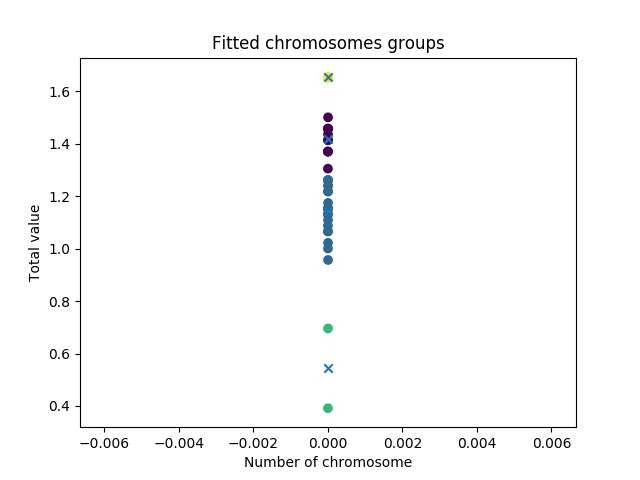
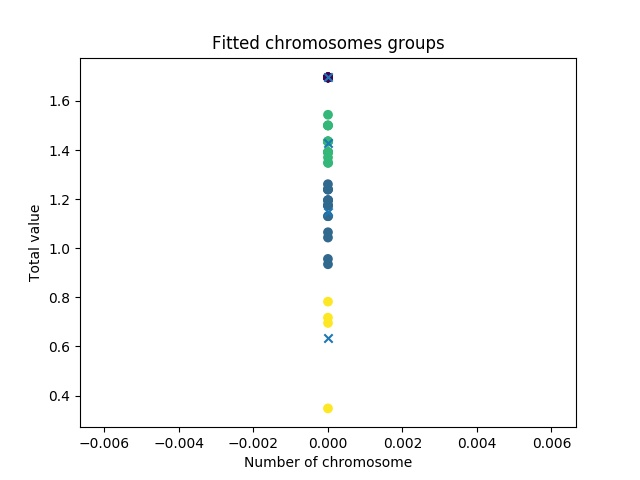
Last errors from reset repaired

diff --git a/genetic_optimizer/src/conf_handler.py b/genetic_optimizer/src/conf_handler.py
@@ -62,7 +62,8 @@ class Main_Configuration(object):
     '''
 
     @os_slashes
-    def __init__(self, slashes):
+    def __init__(self, iterations, shuffle_scale, variety, chromosome_weight, slashes):
+        self.user_provided_input = {'iterations': iterations, 'shuffle_scale': shuffle_scale, 'variety': variety, 'chromosome_weight': chromosome_weight}
         self.PATH = '.{}src{}STANDARDS.conf'.format(slashes, slashes)
         if path_existence(self.PATH):
             self.config = ConfigParser()
@@ -72,18 +73,19 @@ class Main_Configuration(object):
             self.out_dir =str(".{}" + self.config.get('OUTPUTLOCATION', 'DIR') + "{}").format(slashes, slashes)
 
     def performance(self):
-        shuffle_scale = float(self.config.get('PERFORMANCE', 'SHUFFLE_SCALE'))
-        iterations = float(self.config.get('PERFORMANCE', 'ITER'))
-        chromosome_weight = float(self.config.get('PERFORMANCE', 'CHROMOSOMELAYERWEIGHT'))
-        variety = float(self.config.get('PERFORMANCE', 'VARIETY'))
-
-        if (shuffle_scale or variety) not in np.arange(0, 2, 0.01):
-            raise Exception('Sum of crossover probability and mutation probability must be in range from 0 to 1 (0% - 100%)')
+        getperformance = {'iterations' : float(self.config.get('PERFORMANCE', 'ITER')), 'shuffle_scale' : float(self.config.get('PERFORMANCE', 'SHUFFLE_SCALE')) , 'chromosome_weight' : float(self.config.get('PERFORMANCE', 'CHROMOSOMELAYERWEIGHT')), 'variety': float(self.config.get('PERFORMANCE', 'VARIETY'))}
         
-        elif (iterations or chromosome_weight) < 0:
+        for key, value in self.user_provided_input.items():
+            if value is not None:
+                getperformance[key] = value
+        
+        if (getperformance['shuffle_scale'] or getperformance['variety']) not in np.arange(0, 2, 0.01):
+            raise Exception('Sum of crossover probability and mutation probability must be in range from 0 to 1 (0% - 100%)')
+                
+        elif (getperformance['iterations'] or getperformance['chromosome_weight']) < 0:
             raise Exception('All features in PERFORMANCE section must be positive')
+
         else:
-            getperformance = {'iter' : iterations, 'shuffle_scale' : shuffle_scale , 'chromosome_weight' : chromosome_weight, 'variety': variety}
             return getperformance
 
     def input_loc(self):
@@ -91,19 +93,22 @@ class Main_Configuration(object):
             return self.in_dir
 
     def output_loc(self):
-        if dir_existence(self.out_dir):
-            getfiles = {'file_name' : False, 'fig_name' : False, 'log_name' : False}
+        if any([bool(self.config.get('OUTPUTLOCATION', 'DOOUT')), bool(self.config.get('OUTPUTLOCATION', 'DOFIG')), bool(self.config.get('OUTPUTLOCATION', 'DOLOG'))]):
+            if dir_existence(self.out_dir):
+                getfiles = {'file_name' : False, 'fig_name' : False, 'log_name' : False}
 
-            if bool(self.config.get('OUTPUTLOCATION', 'DOOUT')):
-                getfiles['file_name'] = str(self.out_dir + self.config.get('OUTPUTLOCATION', 'OUTNAME') + '.' + self.config.get('OUTPUTLOCATION', 'OUTFORMAT'))
+                if bool(self.config.get('OUTPUTLOCATION', 'DOOUT')):
+                    getfiles['file_name'] = str(self.out_dir + self.config.get('OUTPUTLOCATION', 'OUTNAME') + '.' + self.config.get('OUTPUTLOCATION', 'OUTFORMAT'))
 
-            if bool(self.config.get('OUTPUTLOCATION', 'DOFIG')):
-                getfiles['fig_name'] = str(self.out_dir + self.config.get('OUTPUTLOCATION', 'FIGNAME') + '.' + self.config.get('OUTPUTLOCATION', 'FIGFORMAT'))
+                if bool(self.config.get('OUTPUTLOCATION', 'DOFIG')):
+                    getfiles['fig_name'] = str(self.out_dir + self.config.get('OUTPUTLOCATION', 'FIGNAME') + '.' + self.config.get('OUTPUTLOCATION', 'FIGFORMAT'))
 
-            if bool(self.config.get('OUTPUTLOCATION', 'DOLOG')):
-                getfiles['log_name'] = str(self.out_dir + self.config.get('OUTPUTLOCATION', 'LOGNAME') + '.' + self.config.get('OUTPUTLOCATION', 'LOGFORMAT'))
+                if bool(self.config.get('OUTPUTLOCATION', 'DOLOG')):
+                    getfiles['log_name'] = str(self.out_dir + self.config.get('OUTPUTLOCATION', 'LOGNAME') + '.' + self.config.get('OUTPUTLOCATION', 'LOGFORMAT'))
 
-            return getfiles
+                return getfiles
+        else:
+            return False
 
     # i`ll do it later
     def server(self):

diff --git a/genetic_optimizer/__init__.py b/genetic_optimizer/__init__.py
@@ -7,10 +7,6 @@ from src.meta import Implement_Func
 from src.conf_handler import Load_Configuration
 from src.pipeline import Pipeline
 from Generator.generator import Generator
-# from src.preprocessing import Preprocess_Dataframe
-# from src.fitness import Fitness
-# from src.optimizator import Optimizer
-# from src.save import Save
 
 from configparser import ConfigParser
 import inspect
@@ -27,7 +23,10 @@ def load_config(gen):
                 kwargs[arg]
             except KeyError as k:
                 kwargs[arg] = config.read(arg.upper())
-        gen(*args, **kwargs)
+        try:
+            gen(*args, **kwargs)
+        except TypeError as t:
+            raise t('Insert full name arguments while changing configuration parameters')
     return wrapper
         
 def check_file(opt):
@@ -59,14 +58,14 @@ class Genetic_Optimizer(Implement_Func):
     
     @staticmethod
     @check_file
-    def optimize(file_name):
+    def optimize(file_name, iterations=None, shuffle_scale=None, variety=None, chromosome_weight=None):
         '''
             ...
         '''
-        Pipeline(file_name)
+        Pipeline(file_name, iterations, shuffle_scale, variety, chromosome_weight)
 
 if __name__ == '__main__':
     gen = Genetic_Optimizer()
 #    gen.generate()
-    gen.optimize('bineq.csv')
+    gen.optimize('bineq.csv', 5)
     

diff --git a/genetic_optimizer/src/pipeline.py b/genetic_optimizer/src/pipeline.py
@@ -21,8 +21,8 @@ except ModuleNotFoundError as m:
 from datetime import datetime
 
 class Pipeline(object):
-    def __init__(self, file_name):
-        self.config = Main_Configuration()
+    def __init__(self, file_name, iterations, shuffle_scale, variety, chromosome_weight):
+        self.config = Main_Configuration(iterations, shuffle_scale, variety, chromosome_weight)
         self.performance = self.config.performance()
         
         start = datetime.now()
@@ -32,7 +32,7 @@ class Pipeline(object):
         print(str(datetime.now()) + "\n" + "File found and cleaned properly")
 
         self.generation = 0
-        while self.generation != self.performance['iter']:  
+        while self.generation != self.performance['iterations']:  
                
             #fitness
             self.fitted_population = Fitness(self.population).fit_population()

diff --git a/genetic_optimizer/src/save.py b/genetic_optimizer/src/save.py
@@ -31,9 +31,9 @@ class Save(object):
 
     @save_population.setter
     def save_population(self, population):        
-        get_files = self.config.output_loc()
+        if self.config.output_loc():
+            get_files = self.config.output_loc()
         
-        if any(get_files.values()):
             if get_files['file_name']:
                 extension = get_files['file_name'].split(".")
 
